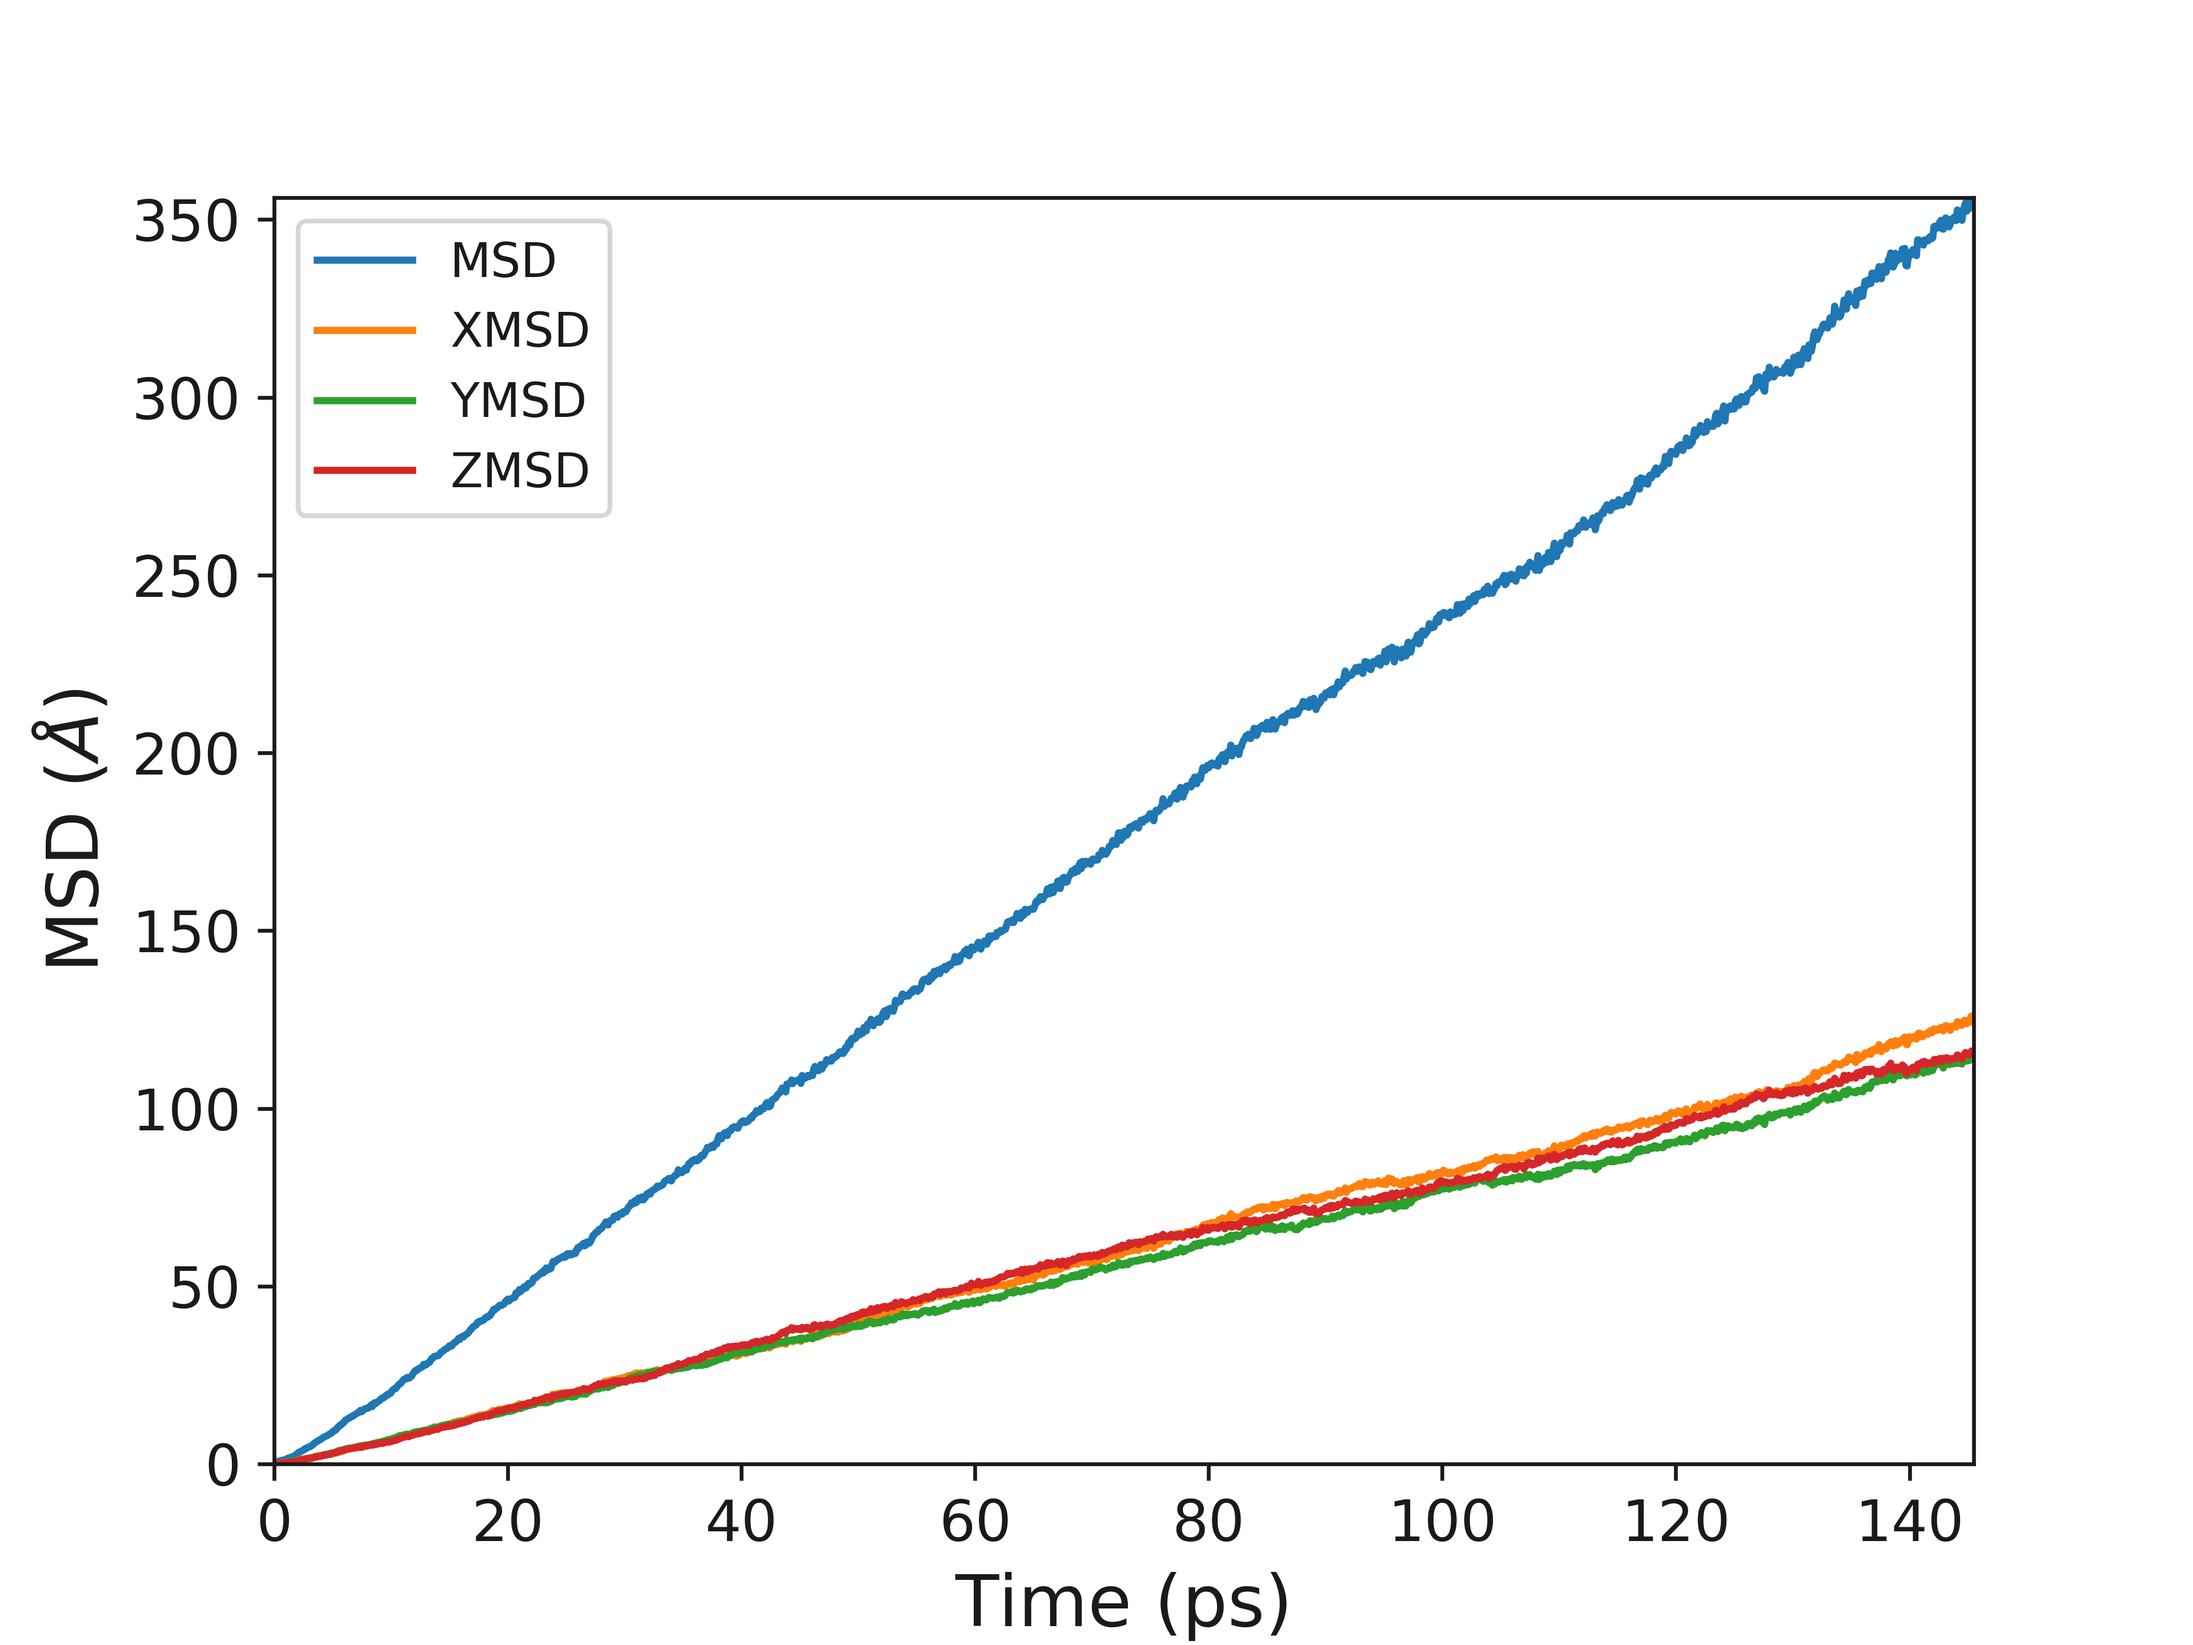
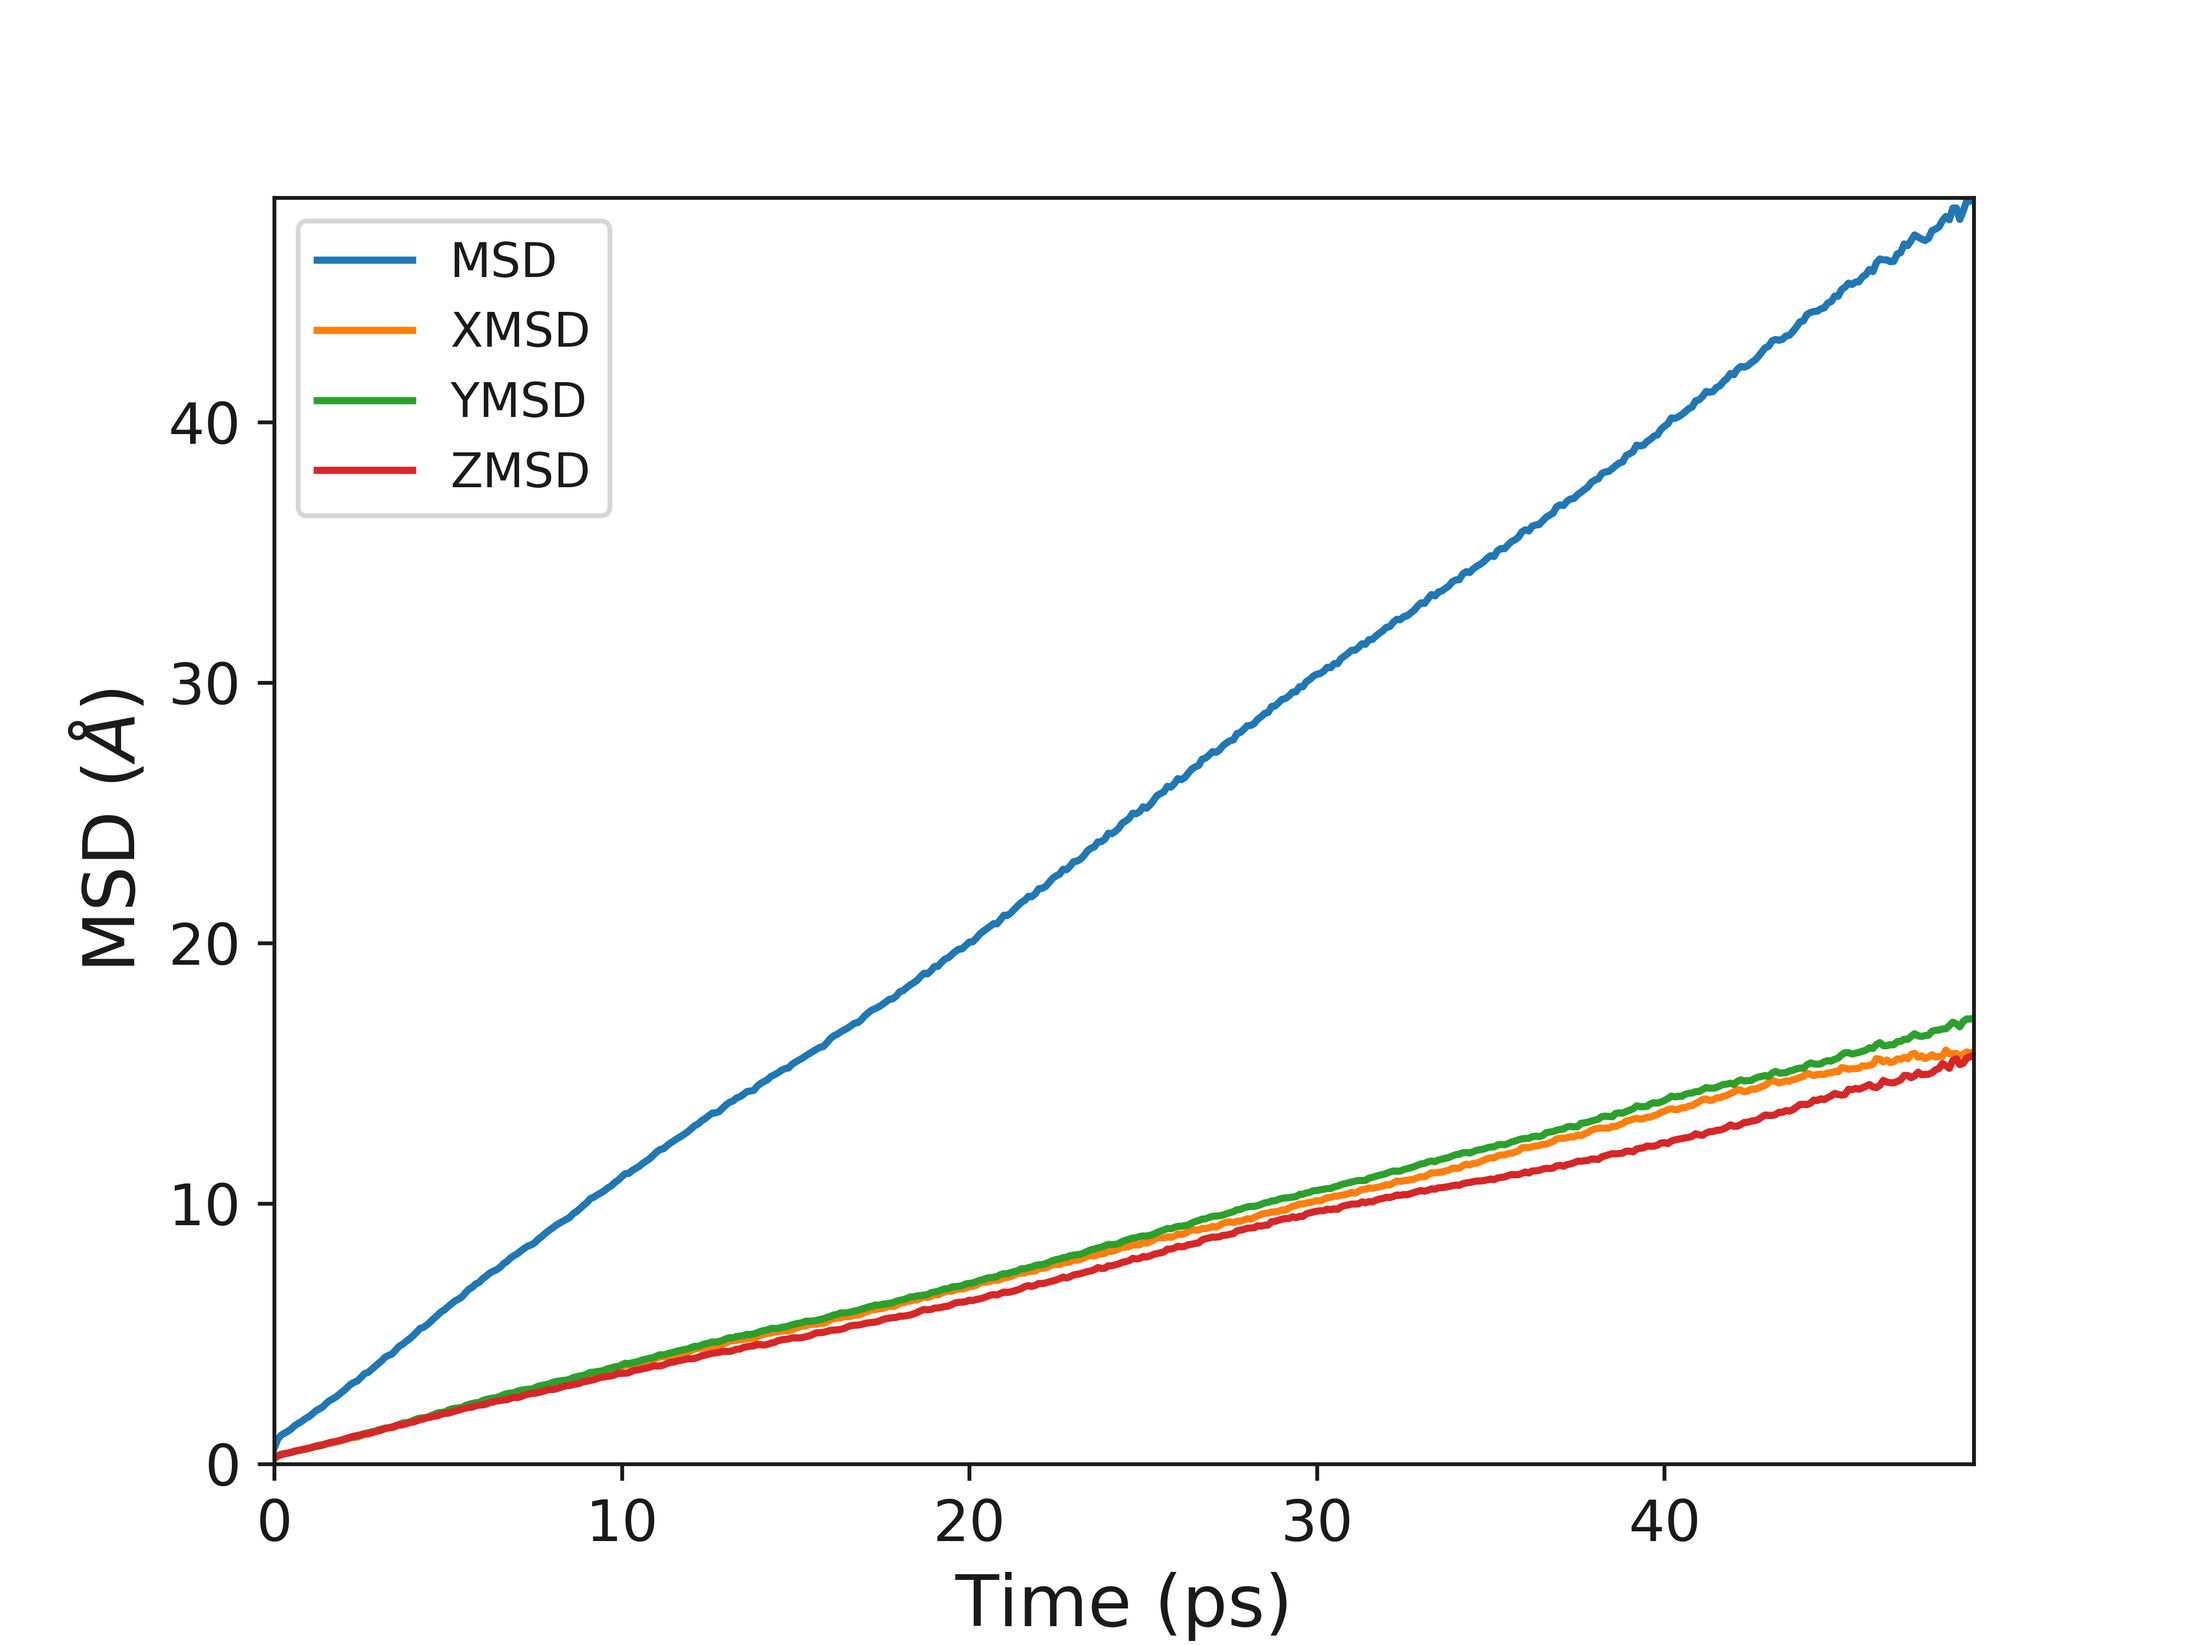
MSD Docs

diff --git a/examples/scripts/Short_MSD.py b/examples/scripts/Short_MSD.py
@@ -4,9 +4,10 @@ from polypy import utils as ut
 from polypy import write as wr
 import numpy as np
 
+timestep = 0.1
 data_short = rd.read_history("../example_data/HISTORY_short", ["F"])
 msd_data = msd.msd(data_short, timestep)
-wr.msd_plot(msd_data, output="MSD_Theory.png")
+wr.msd_plot(msd_data)
 
 Diff = ut.linear_regression(msd_data['time'], msd_data['msd'])
 Diffusion_Coefficient = ut.three_d_diffusion_coefficient(Diff)

diff --git a/docs/source/theory.rst b/docs/source/theory.rst
@@ -30,19 +30,33 @@ Electrostatic Potential
 Mean Squared Displacement
 -------------------------
 
-As an atom travels it is interrupted by collisions with other atoms and this prevents it from travelling in a straight line. In the end the particle moves in a way resembling a random walk. In mathmatics a random walk is a series of steps, where each step is taken in a random direction. Albert Einstein showed that the mean square of the distance travelled by an atom following a random walk is proportional to the time elapsed. This relationship can be written as 
+Molecules in liquds, gases and solids do not stay in the same place and move constantly. Think about a drop of dye in a glass of water, as time passes the dye distributes throughout the water. This process is called diffusion and is common throughout nature and an incredibly relevant property for materials scientists who work on things like batteries.  
+
+Using the dye as an example, the motion of a dye molecule is not simple. As it moves it is jostled by collisions with other molecules, preventing it from moving in a straight path. If the path is examined in close detail, it will be seen to be a good approximation to a random walk. In mathmatics a random walk is a series of steps, each taken in a random direction. This was analysed by Albert Einstein in a study of Brownian motion and he showed that the mean square of the distance travelled by a particle following a random walk is proportional to the time elapsed. 
 
 .. math::
-    <r_{i}^{2}(t)> = 2Dt
+    \Big \langle r_{i}^{2} \big \rangle = 6 D_t + C 
 
 where 
 
 .. math::
-    <r_{i}^{2}> = \frac{1}{3} \Big< | r_{i}(t) - r_{i}(0) |^2 \Big> 
+    \Big \langle r_{i}^{2} \big \rangle = \frac{1}{3} \Big< | r_{i}(t) - r_{i}(0) |^2 \Big>,
 
 
-Therefore if :math:`\Big< | r_{i}(t) - r_{i}(0) |^2 \Big>` is plotted as a function of time, the gradient of the curve obtained is equal to 6 times the self-diffusion coefficient of particle i. 
-The state of the matter effects the shape of the MSD plot, solids, where little to no diffusion is occuring, has a flat MSD profile. In a liquid however, the particles diffusion randomly and the gradient of the curve is proportional to the diffusion coefficient. 
+where :math:`\Big \langle r^2 \big \rangle` is the mean squared distance, t is time, :math:`D_t` is the diffusion rate and C is a constant. If :math:`$\Big \langle r_{i}^{2} \big \rangle` is plotted as a function of time, the gradient of the curve obtained is equal to 6 times the self-diffusion coefficient of particle i. 
+
+What is the mean squared displacement
+~~~~~~~~~~~~~~~~~~~~~~~~~~~~~~~~~~~~~
+
+Going back to the example of the dye in water, lets assume for the sake of simplicity that we are in one dimension. Each step can either be forwards or backwards and we cannot predict which. From a given starting position, what distance is our dye molecule likely to travel after 1000 steps? This can be determined simply by adding together the steps, taking into account the fact that steps backwards subtract from the total, while steps forward add to the total. Since both forward and backward steps are equally probable, we come to the surprising conclusion that the probable distance travelled sums up to zero.
+
+By adding the square of the distance we will always be adding positive numbers to our total which now increases linearly with time. Based upon equation 1 it should now be clear that a plot of $\Big \langle r_{i}^{2} \big \rangle$ vs time with produce a line, the gradient of which is equal to 6D. Giving us direct access to the diffusion coefficient of the system. The state of the matter effects the shape of the MSD plot, solids, where little to no diffusion is occuring, has a flat MSD profile. In a liquid however, the particles diffusion randomly and the gradient of the curve is proportional to the diffusion coefficient. 
+
+.. image:: Figures/fig001.png
+    :height: 300px
+    :align: center
+
+The following example is for fluorine diffusion in :math:`CaF_2`.
 
 .. image:: Figures/MSD_Theory.png
     :height: 300px
@@ -52,4 +66,25 @@ The state of the matter effects the shape of the MSD plot, solids, where little 
 Ionic Conductivity
 ------------------
 
+Usefully, as we have the diffusion coefficient, the number of particles (charge carriers) and the ability to calculate the volume, we can convert this data into the ionic conductivity and then the resistance. 
 
+.. math::
+    \sigma = \frac{D C_F e^2}{k_B T} 
+
+where :math:`\sigma` is the ionic conductivity, D is the diffusion coefficient,:math:`C_F` is the concentration of charge carriers, which in this case if F ions, :math:`e^2` is the charge of the diffusing species, :math:`k_B` is the Boltzmann constant and T is the temperature. 
+
+The resitance can then be calculated according to 
+
+.. math::
+    \Omega = \frac{1}{\sigma} 
+
+
+Arrhenius
+---------
+
+It is possible to calculate the diffusion coefficients over a large temperature range and then use the Arrhenius equation to calculate the activation energy for diffusion. Common sense and chemical intuition suggest that the higher the temperature, the faster a given chemical reaction will proceed. Quantitatively this relationship between the rate a reaction proceeds and its temperature is determined by the Arrhenius Equation. At higher temperatures, the probability that two molecules will collide is higher. This higher collision rate results in a higher kinetic energy, which has an effect on the activation energy of the reaction. The activation energy is the amount of energy required to ensure that a reaction happens.  
+  
+.. math::
+    k = A e^{(-Ea / RT)}
+  
+where k is the rate coefficient, A is a constant, Ea is the activation energy, R is the universal gas constant, and T is the temperature (in kelvin).
